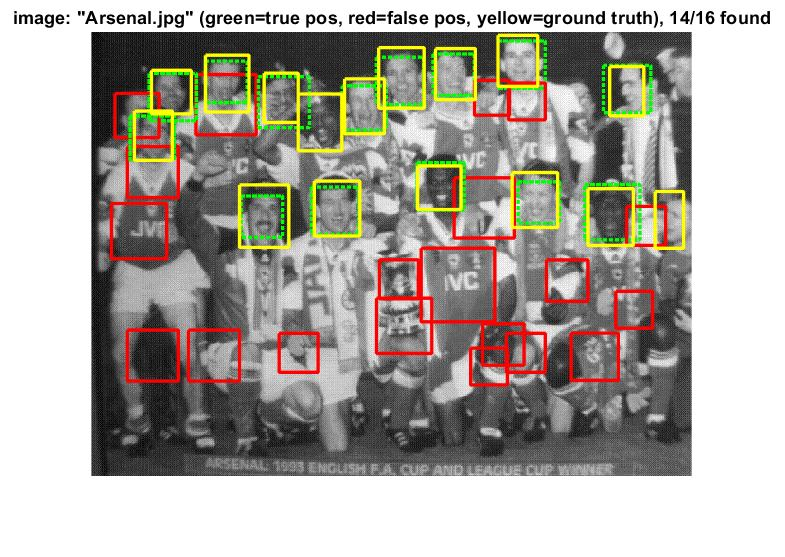
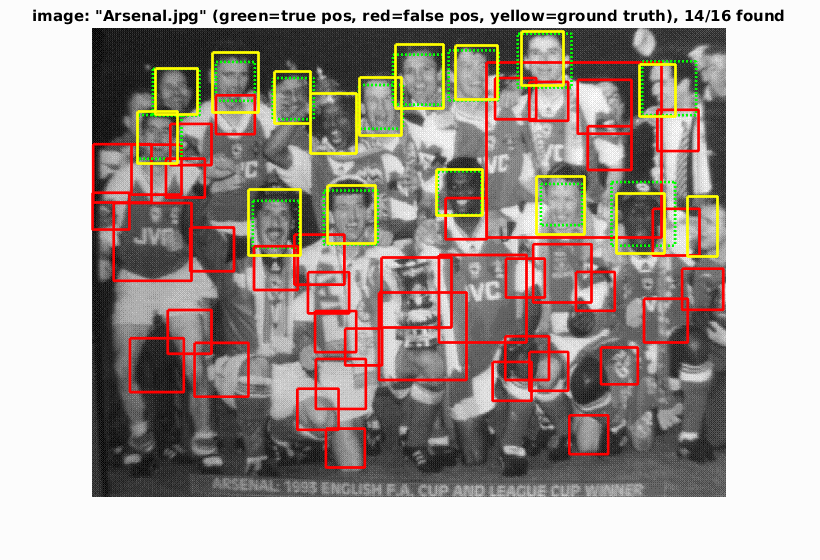
Updated images and documentation; Removed images to be retaken

diff --git a/face_detection/html/index.html b/face_detection/html/index.html
@@ -179,7 +179,7 @@
 			<br>
 			<br>To mine hard negatives, each image that does not contain any faces is fed into a process similar to run_detector, i.e.
 			scaling, sliding window, SVM prediction and confidence threshold filtering. However, rather than returning the image bounding
-			boxes, hard negative mining returns the HoG features with confidence score higher than a threshold (0.9). These are essentially
+			boxes, hard negative mining returns the HoG features with confidence score higher than a threshold (0.8). These are essentially
 			false positives since we know they are not faces, and are therefore returned as additional negative training samples.
 
 			<br>
@@ -260,8 +260,8 @@
 					</td>
 					<td>
 						<code>feature_params.template_size = 36</code><br>
-						<code>feature_params.hog_cell_size = 6</code><br>
-						<code>num_negative_examples = 10000</code>
+						<code>feature_params.hog_cell_size = 3</code><br>
+						<code>num_negative_examples = 20000</code>
 					</td>
 				</tr>
 				<tr>
@@ -289,7 +289,7 @@
 						<code>find()</code>
 					</td>
 					<td>
-						<code>scores > 0.9</code>
+						<code>scores > 0.8</code>
 					</td>
 				</tr>
 				
@@ -309,7 +309,7 @@
 						<code>find()</code>
 					</td>
 					<td>
-						<code>scores > 0.5</code>
+						<code>scores > 0.8</code>
 					</td>
 				</tr>
 			</tbody>
@@ -464,6 +464,18 @@
 				</tr>
 			</tbody>
 		</table>
+		
+		<br>
+		<br>
+		
+		<h1>3 - Observations</h1>
+		The best precision obtained was 0.928, where hard negative mining was not used and data augmentation was used.
+		
+		<h2>3.1 - Hard Negative Mining</h2>
+		With hard negative mining, average precision decreased by x compared to the baseline. This may be due to the fact that hard negative mining creates more non-face training data, but not more face training data. Due to this, the number of false positives decreased, but so did the number of true positives.
+		
+		<h2>3.2 - Data Augmentation</h2>
+		More data = ggez
 	</div>
 </body>
 
